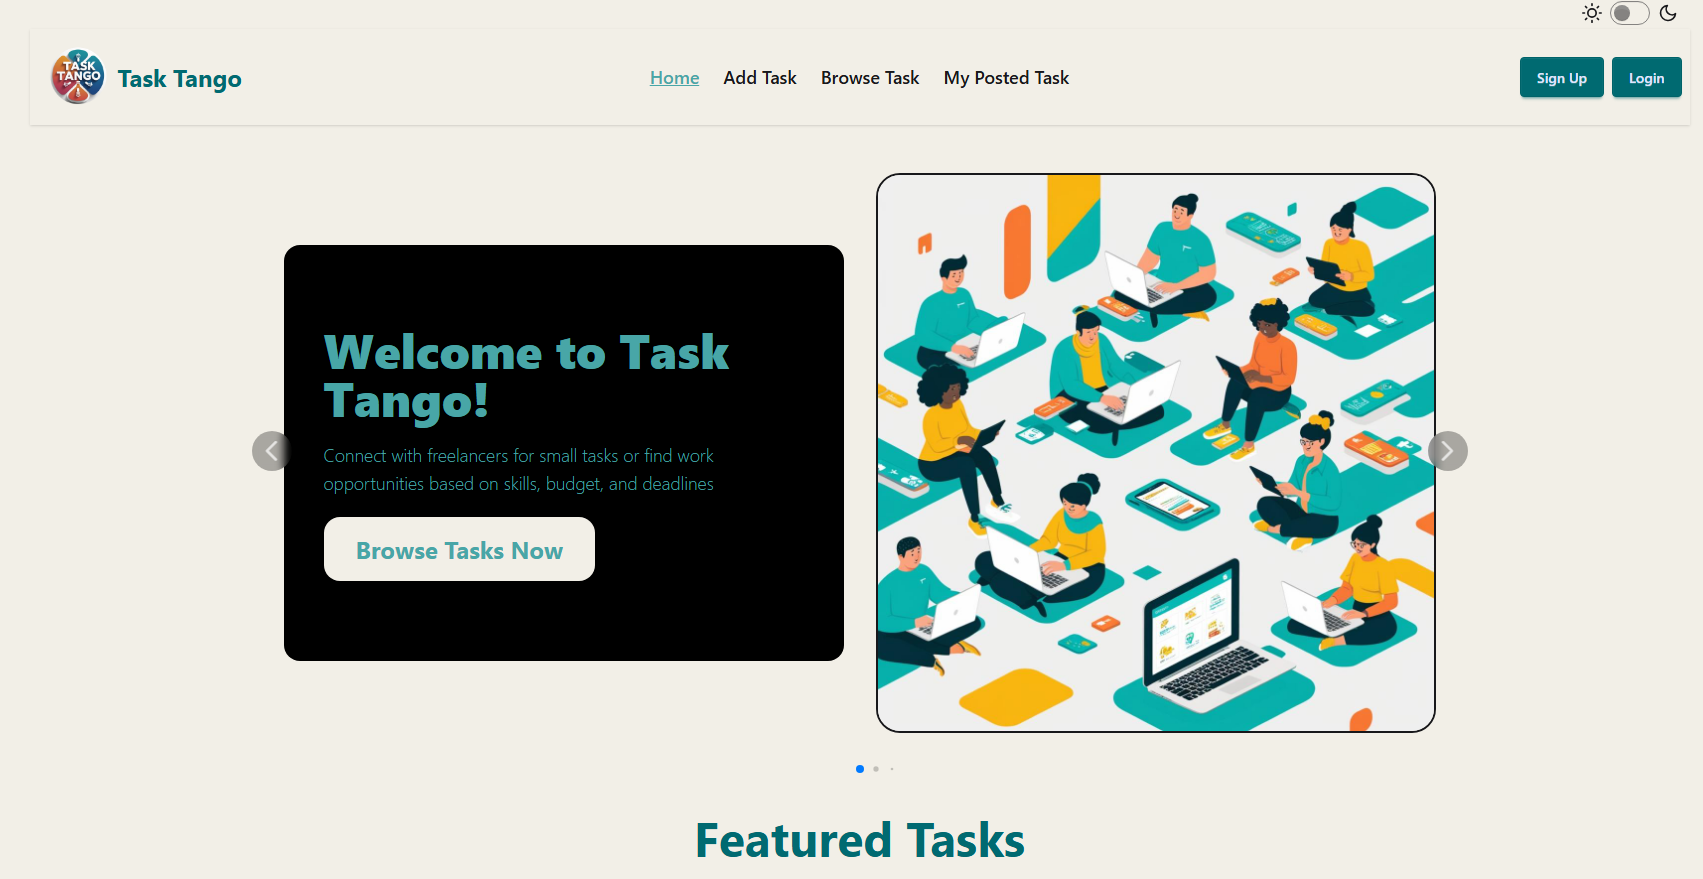
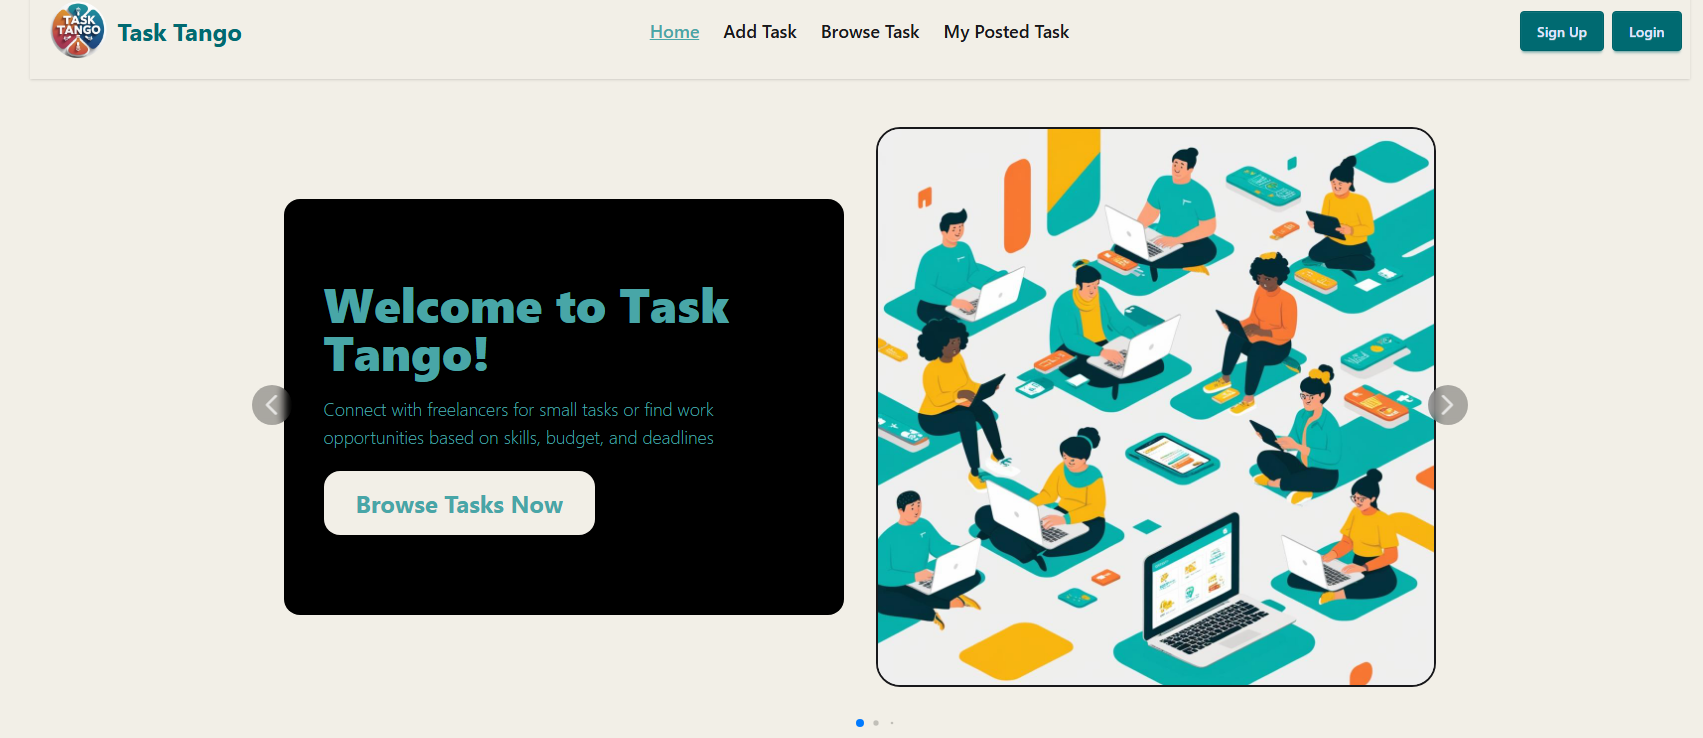
fixed carousel

diff --git a/src/UI/Carousel.jsx b/src/UI/Carousel.jsx
@@ -1,104 +1,93 @@
 import React from "react";
-// Import Swiper React components and styles
 import { Swiper, SwiperSlide } from "swiper/react";
 import "swiper/css";
 import "swiper/css/pagination";
 import { Pagination, Autoplay } from "swiper/modules";
-
-// Your icons
 import { FiExternalLink, FiGithub } from "react-icons/fi";
 
 export default function Carousel({ items }) {
   return (
-    <div
-      className="relative rounded-[24px] border border-[#222] p-4"
-      style={{
-        maxWidth: "900px",
-        maxHeight: "550px",
-        width: "100%",
-        height: "100%",
-      }}
-    >
+    <div className="relative rounded-[24px] border border-[#222] p-4 w-full max-w-[900px]">
       <Swiper
         modules={[Pagination, Autoplay]}
-        pagination={{ clickable: true }}
+        pagination={{
+          clickable: true,
+        }}
         loop={true}
         autoplay={{
           delay: 3000,
           disableOnInteraction: false,
         }}
         slidesPerView={1}
-        className="w-full h-full"
+        className="w-full"
       >
         {items.map((item, index) => (
           <SwiperSlide key={index}>
-            <div className="relative w-full h-full bg-[#222] rounded-[12px] flex overflow-hidden p-4">
-              <div className="flex w-full h-full">
-                {/* Left side: Image */}
-                <div className="w-1/2 p-2 flex items-center justify-center">
-                  <img
-                    src={item.image}
-                    alt={item.title}
-                    className="rounded-lg object-contain w-full h-full"
-                  />
-                </div>
+            <div className="w-full bg-[#222] rounded-[12px] flex flex-col p-4 min-h-[600px]"> {/* Fixed height */}
+              {/* Image */}
+              <div className="flex-1 flex items-center justify-center p-2">
+                <img
+                  src={item.image}
+                  alt={item.title}
+                  className="rounded-lg object-contain w-full h-auto max-h-[300px]"
+                />
+              </div>
 
-                {/* Right side: Project details */}
-                <div className="w-1/2 p-2 flex flex-col justify-between">
+              {/* Project details */}
+              <div className="flex-1 flex flex-col p-2 mt-4">
+                <div>
+                  <div className="flex items-center justify-between mb-2">
+                    <h3 className="text-xl font-bold text-primary">
+                      {item.title}
+                    </h3>
+                    <div className="flex gap-2">
+                      <a
+                        href={item.liveLink}
+                        target="_blank"
+                        rel="noopener noreferrer"
+                        className="text-white hover:text-primary"
+                        title="Live Demo"
+                      >
+                        <FiExternalLink size={20} />
+                      </a>
+                      <a
+                        href={item.githubLink}
+                        target="_blank"
+                        rel="noopener noreferrer"
+                        className="text-white hover:text-primary"
+                        title="GitHub Repo"
+                      >
+                        <FiGithub size={20} />
+                      </a>
+                    </div>
+                  </div>
+                  <p className="text-sm text-gray-300 mb-4">
+                    {item.description}
+                  </p>
+                  <div className="mb-4">
+                    <h4 className="text-sm font-semibold text-primary mb-1">
+                      Technologies Used:
+                    </h4>
+                    <div className="flex flex-wrap gap-2">
+                      {item.technologies.map((tech, i) => (
+                        <span
+                          key={i}
+                          className="bg-gray-700 text-xs text-white px-2 py-1 rounded-full"
+                        >
+                          {tech}
+                        </span>
+                      ))}
+                    </div>
+                  </div>
                   <div>
-                    <div className="flex items-center justify-between mb-2">
-                      <h3 className="text-xl font-bold text-primary">
-                        {item.title}
-                      </h3>
-                      <div className="flex gap-2">
-                        <a
-                          href={item.liveLink}
-                          target="_blank"
-                          rel="noopener noreferrer"
-                          className="text-white hover:text-primary"
-                          title="Live Demo"
-                        >
-                          <FiExternalLink size={20} />
-                        </a>
-                        <a
-                          href={item.githubLink}
-                          target="_blank"
-                          rel="noopener noreferrer"
-                          className="text-white hover:text-primary"
-                          title="GitHub Repo"
-                        >
-                          <FiGithub size={20} />
-                        </a>
-                      </div>
-                    </div>
-                    <p className="text-sm text-gray-300 mb-4">
-                      {item.description}
-                    </p>
-                    <div className="mb-4">
-                      <h4 className="text-sm font-semibold text-primary mb-1">
-                        Technologies Used:
-                      </h4>
-                      <div className="flex flex-wrap gap-2">
-                        {item.technologies.map((tech, i) => (
-                          <span
-                            key={i}
-                            className="bg-gray-700 text-xs text-white px-2 py-1 rounded-full"
-                          >
-                            {tech}
-                          </span>
-                        ))}
-                      </div>
-                    </div>
-                    <div>
-                      <h4 className="text-sm font-semibold text-primary mb-1">
-                        Core Features:
-                      </h4>
-                      <ul className="list-disc list-inside text-sm text-gray-300">
-                        {item.features.slice(0, 3).map((feature, i) => (
-                          <li key={i}>{feature}</li>
-                        ))}
-                      </ul>
-                    </div>
+                    <h4 className="text-sm font-semibold text-primary mb-1">
+                      Core Features:
+                    </h4>
+                    <ul className="list-disc list-inside text-sm text-gray-300">
+                      {item.features.slice(0, 3).map((feature, i) => (
+                        <li key={i}>{feature}</li>
+                      ))}
+                    </ul>
                   </div>
                 </div>
               </div>

diff --git a/src/index.css b/src/index.css
@@ -48,3 +48,28 @@ strong {
   border: 4px solid transparent; /* This creates the space for the gradient */
   animation: border-angle-rotate 4s infinite linear;
 }
+
+/* for carousel */
+
+/* Swiper Pagination Customization */
+.swiper-pagination {
+  position: relative !important;
+  bottom: 0 !important;
+  margin-top: 1rem !important;
+  display: flex;
+  justify-content: center;
+  align-items: center;
+}
+
+.swiper-pagination-bullet {
+  background-color: #fb8500;
+  opacity: 0.7;
+  width: 10px;
+  height: 10px;
+  margin: 0 6px !important;
+}
+
+.swiper-pagination-bullet-active {
+  background-color: #fb8500;
+  opacity: 1;
+}
